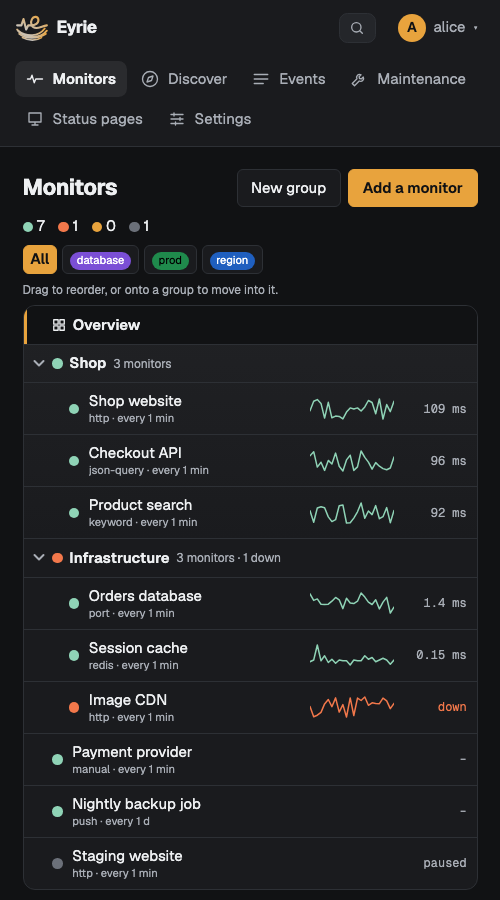
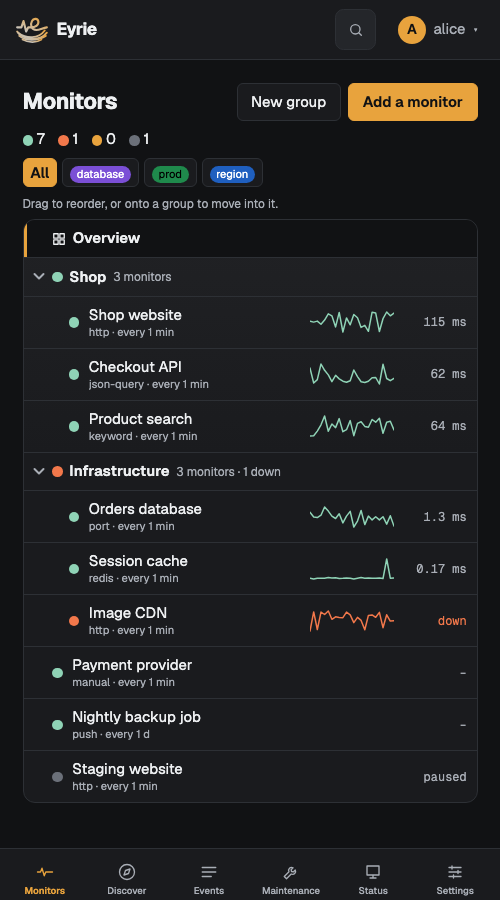
Retake the phone screenshot with the bottom tab bar

diff --git a/docs/user/web-ui.md b/docs/user/web-ui.md
@@ -296,7 +296,7 @@ glass in Aurora (icons only in those two). The logo, search and your
 account menu stay at the top. The browser's bar takes the colour scheme's
 background.
 
-![The dashboard on a phone, in dark mode](../images/narrow-dashboard-dark.png)
+![The dashboard on a phone, in dark mode, with the pages in a tab bar along the bottom](../images/narrow-dashboard-dark.png)
 
 ### On the home screen
 
